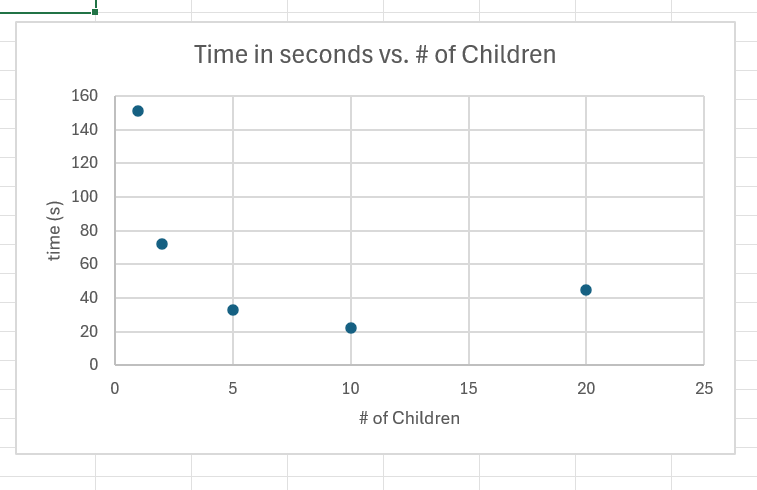
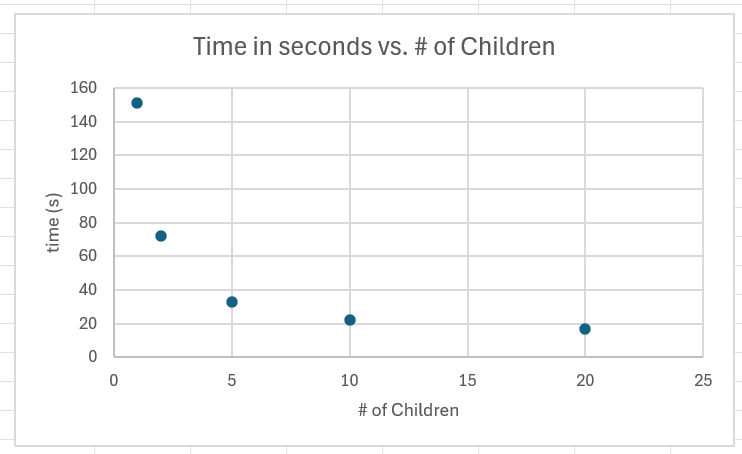
Updated to work with higher number of children

diff --git a/mandel.c b/mandel.c
@@ -89,14 +89,10 @@ int main( int argc, char *argv[] )
 		pid_t pid = fork();
 		if (pid == 0) {
 			//find the start increment
-			int start = i * (image_count / children);
-			int end;
+			int start = (i * image_count) / children;
 			//find the end increment
-			if (i == children - 1) {
-				end = image_count;
-			} else {
-				end = start + (image_count / children);
-			}
+        	int end = ((i + 1) * image_count) / children;
+			
 
 			//iterate through the start and end
 			for (int j = start; j < end; j++) {

diff --git a/README.md b/README.md
@@ -10,6 +10,5 @@ For my implementation, I let the number of children processes be command line ar
 
 ## Discussion
 
-The graph contains the time the program took to complete for 1, 2, 5, 10, and 20 children processes. As one can see from the graph, as the processes increased from 1-10, the time decreased drastically. However, there is a certain point where with more children the time starts to increase again, which is shown by how the time increases with 20 children. This is likely because there is a point where the number of children becomes redundant, and including too many children is useless and just takes the program longer. This means that when using multiprocessing, there is a number of processes that makes the time the lowest, which means finding that number is essential for the most efficient program.
-
+The graph contains the time the program took to complete for 1, 2, 5, 10, and 20 children processes. As one can see from the graph, as the processes increased from 1-20, the time decreased drastically. When more processes are used, the time decreases. For 1 child, the time is around 151 seconds, however 20 cihldren decreases the time to around 17 seconds.
 
